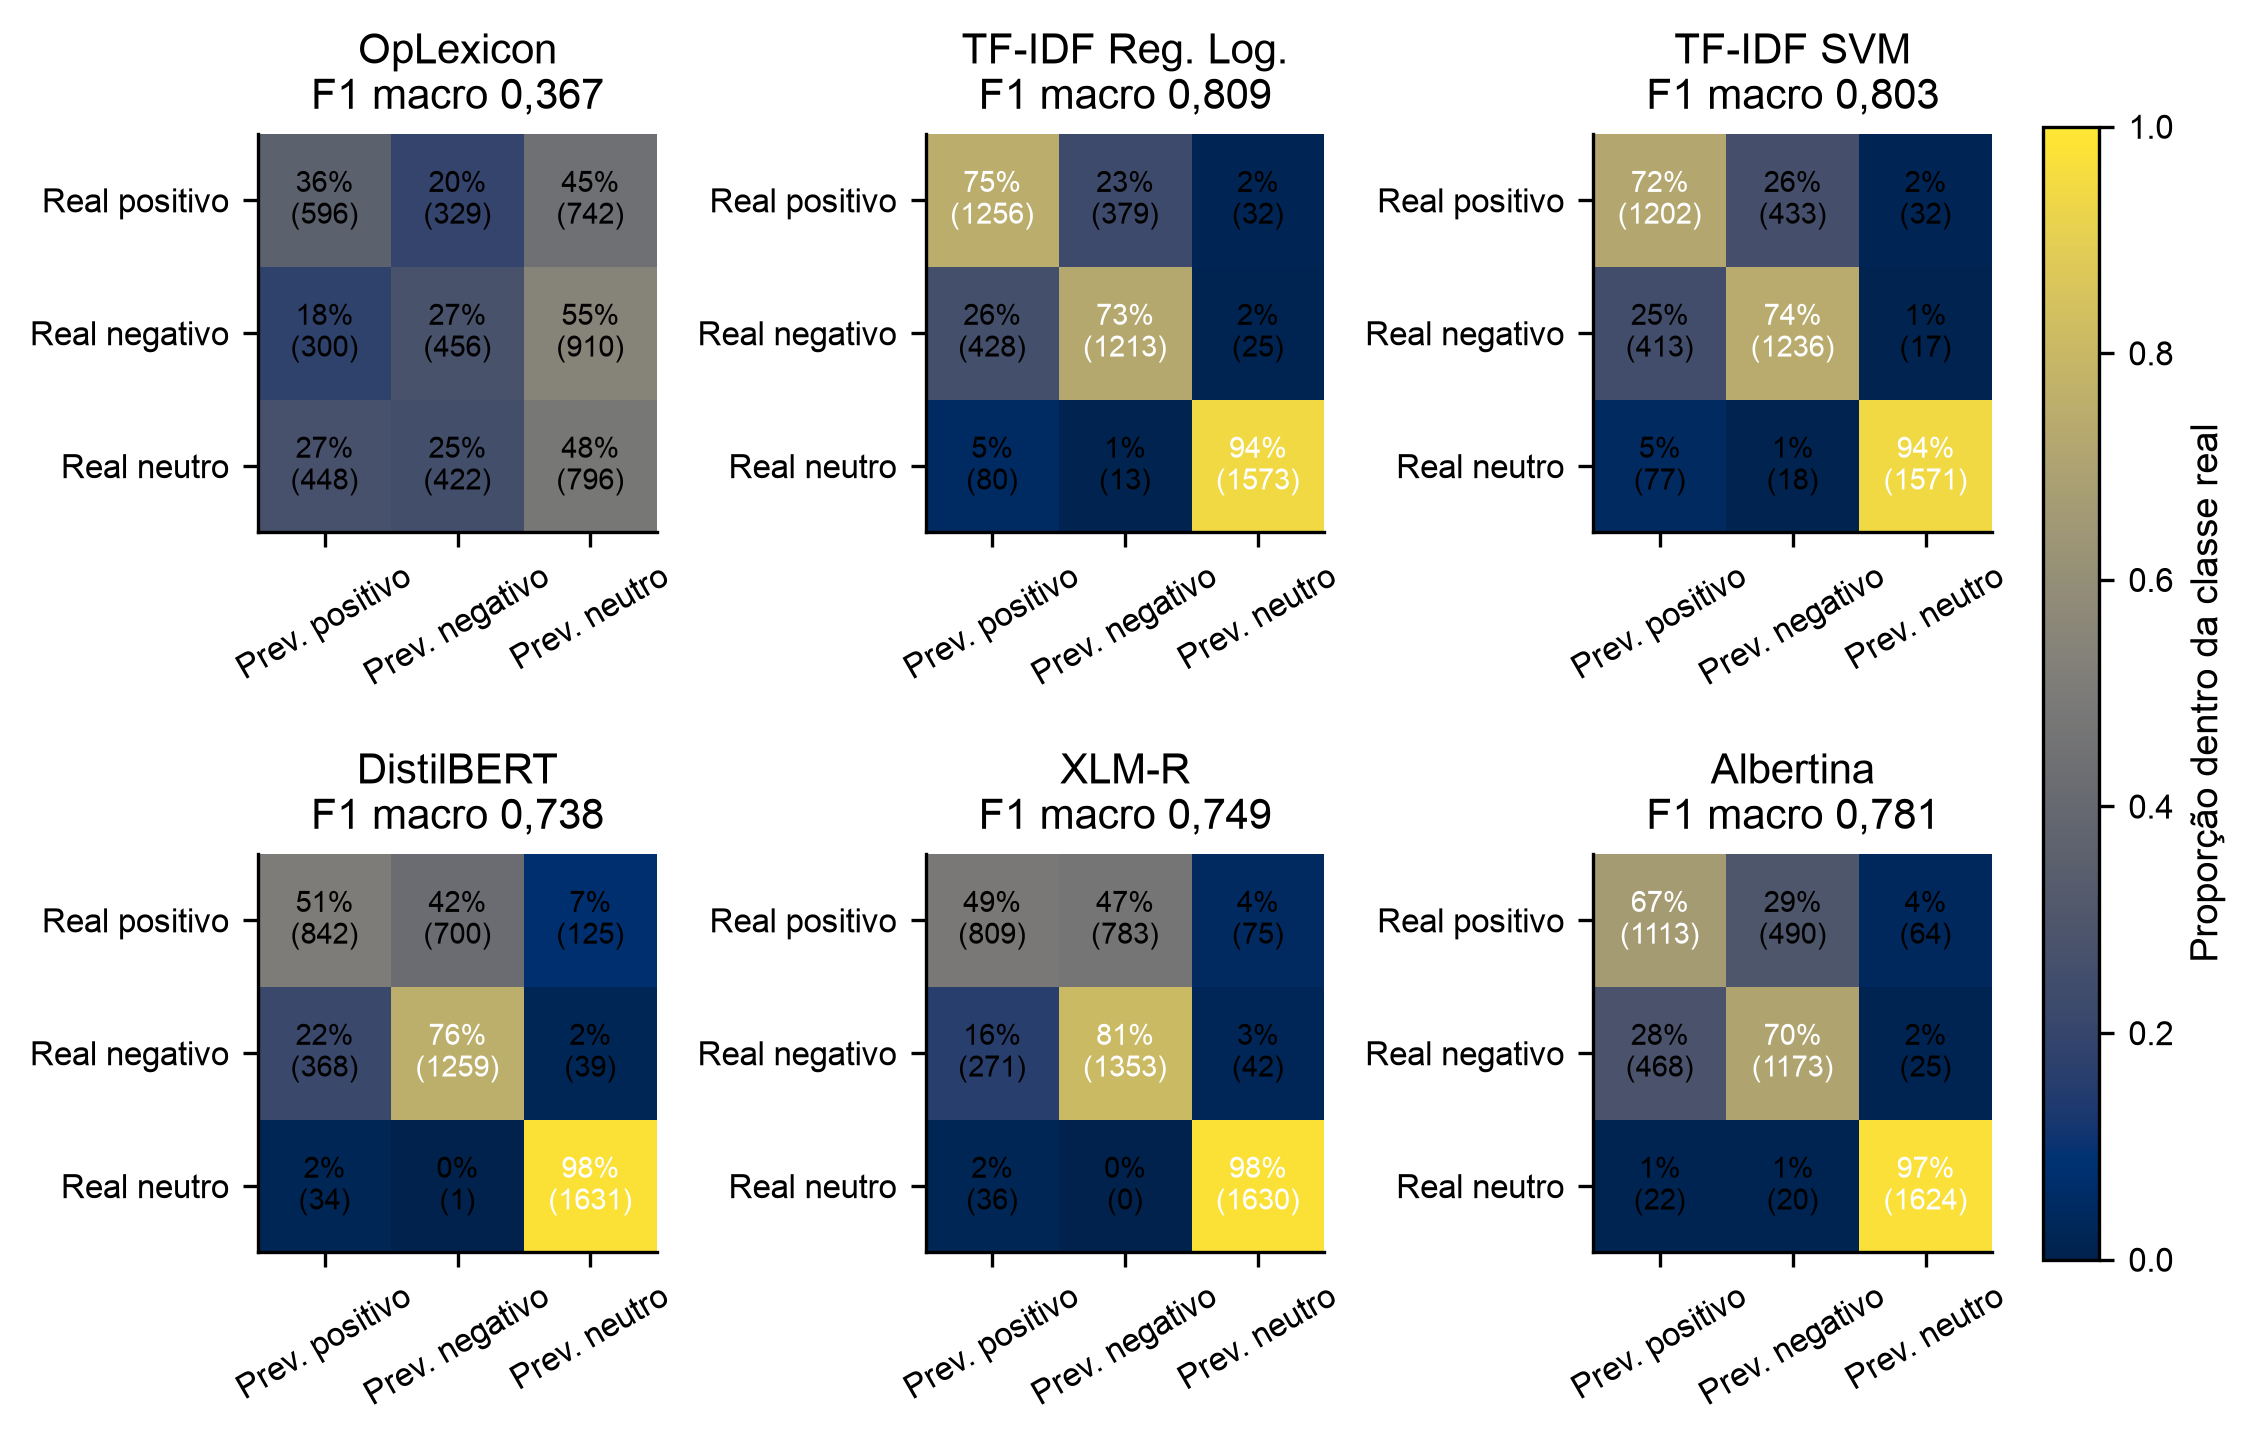
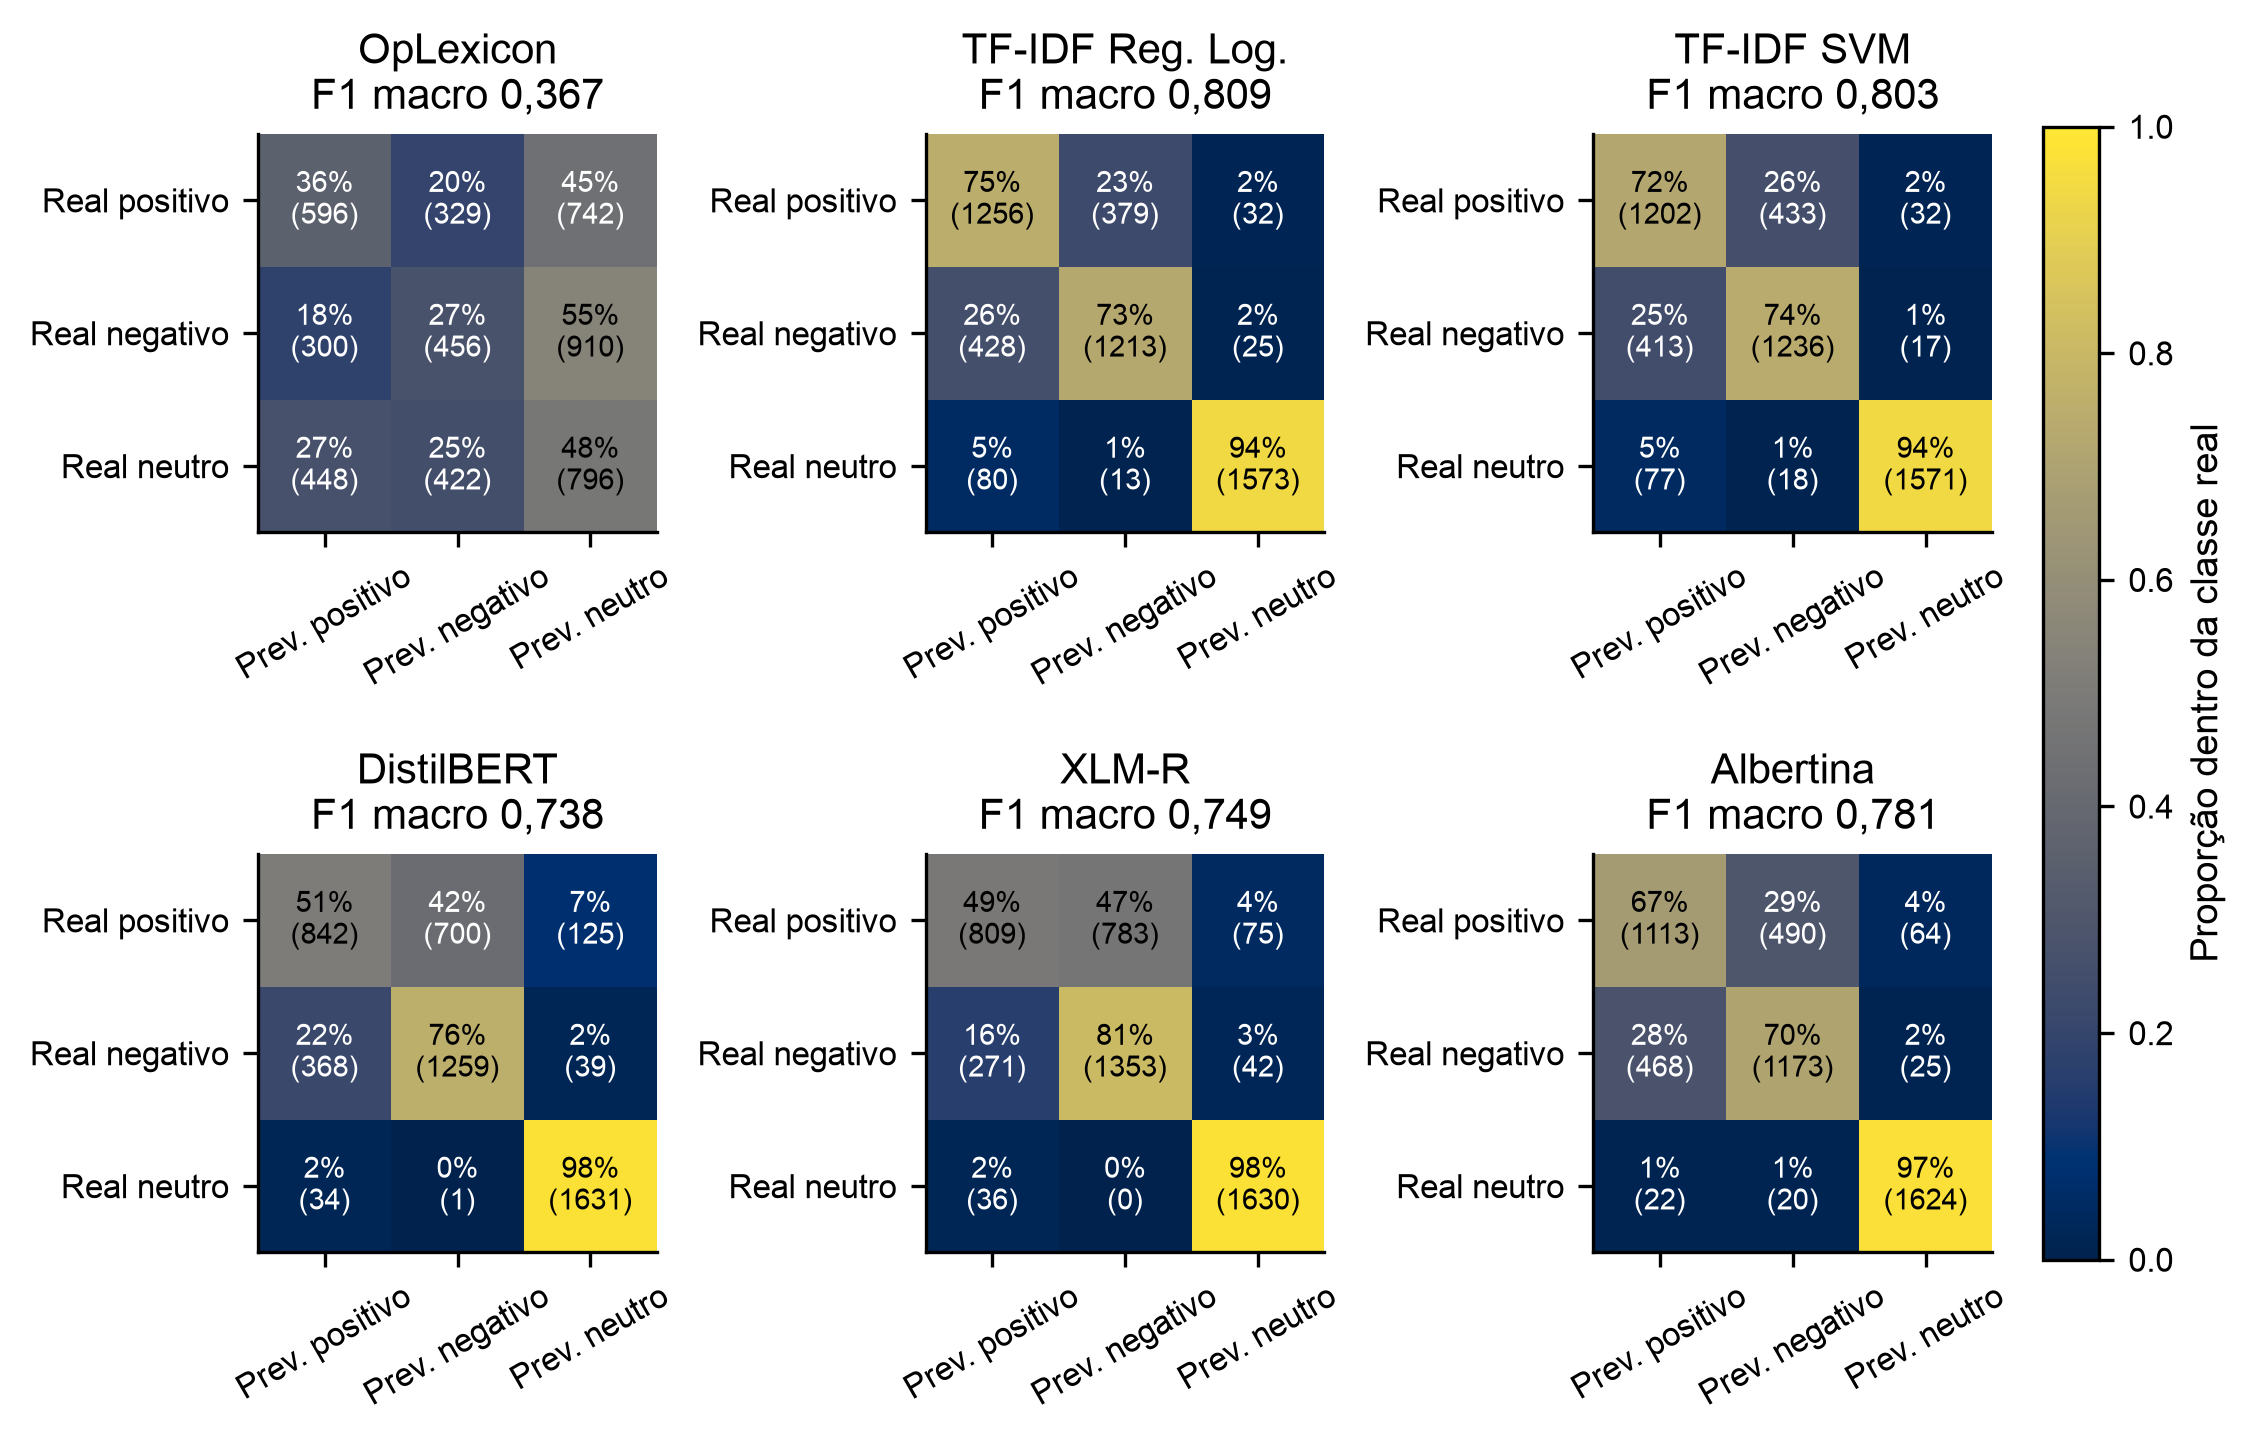
docs(etapa2): improve confusion matrix contrast

diff --git a/etapas/etapa2_subsimbolica/reports/latex/scripts/build_figures.py b/etapas/etapa2_subsimbolica/reports/latex/scripts/build_figures.py
@@ -45,6 +45,23 @@ def _save(fig: plt.Figure, name: str) -> None:
     plt.close(fig)
 
 
+def _to_linear_srgb(channel: float) -> float:
+    if channel <= 0.04045:
+        return channel / 12.92
+    return ((channel + 0.055) / 1.055) ** 2.4
+
+
+def _contrast_text_color(rgba: tuple[float, float, float, float]) -> str:
+    red, green, blue, _alpha = rgba
+    linear_red = _to_linear_srgb(red)
+    linear_green = _to_linear_srgb(green)
+    linear_blue = _to_linear_srgb(blue)
+    luminance = 0.2126 * linear_red + 0.7152 * linear_green + 0.0722 * linear_blue
+    black_contrast = (luminance + 0.05) / 0.05
+    white_contrast = 1.05 / (luminance + 0.05)
+    return "black" if black_contrast >= white_contrast else "white"
+
+
 def plot_macro_f1_tracks() -> None:
     systems = [
         "Baseline\nde pistas",
@@ -208,6 +225,7 @@ def plot_transformer_drop() -> None:
 
 def plot_clean_confusion_matrices() -> None:
     labels = ["positivo", "negativo", "neutro"]
+    cmap = plt.get_cmap("cividis")
     systems = [
         (
             "OpLexicon\nF1 macro 0,367",
@@ -275,7 +293,7 @@ def plot_clean_confusion_matrices() -> None:
     for ax, (title, counts) in zip(axes.flat, systems, strict=True):
         row_totals = counts.sum(axis=1, keepdims=True)
         percentages = counts / row_totals
-        image = ax.imshow(percentages, cmap="cividis", vmin=0, vmax=1)
+        image = ax.imshow(percentages, cmap=cmap, vmin=0, vmax=1)
         ax.set_title(title)
         ax.set_xticks(np.arange(len(labels)), [f"Prev. {label}" for label in labels])
         ax.set_yticks(np.arange(len(labels)), [f"Real {label}" for label in labels])
@@ -284,14 +302,13 @@ def plot_clean_confusion_matrices() -> None:
         for row in range(counts.shape[0]):
             for col in range(counts.shape[1]):
                 value = percentages[row, col]
-                color = "white" if value > 0.55 else "black"
                 ax.text(
                     col,
                     row,
                     f"{value:.0%}\n({counts[row, col]})",
                     ha="center",
                     va="center",
-                    color=color,
+                    color=_contrast_text_color(cmap(value)),
                     fontsize=7,
                 )
 
